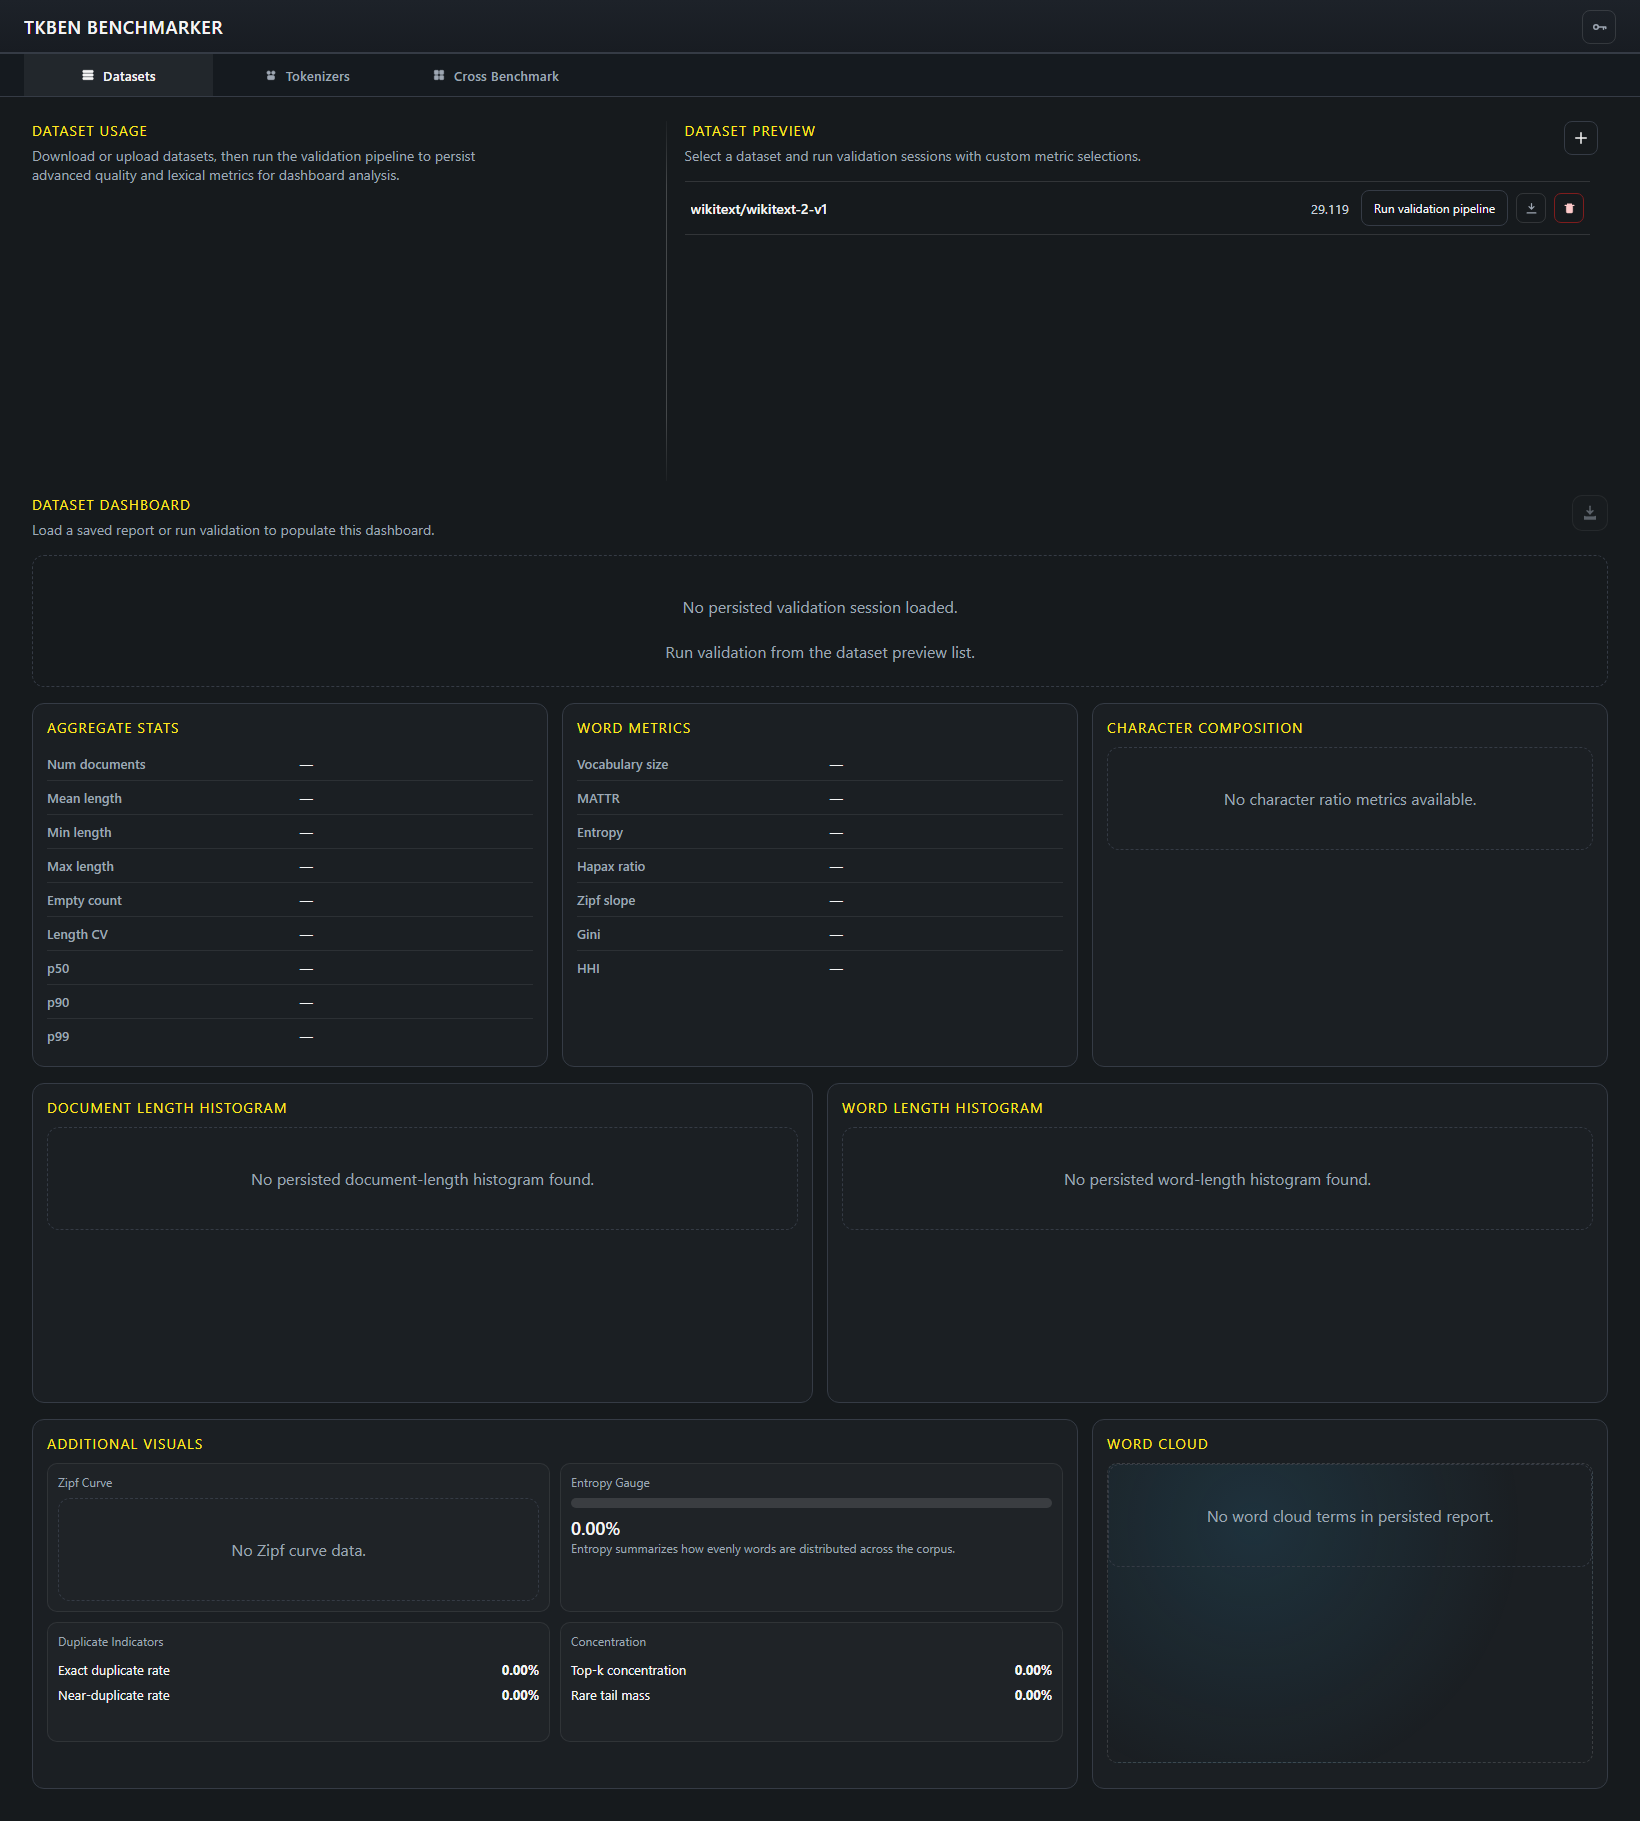
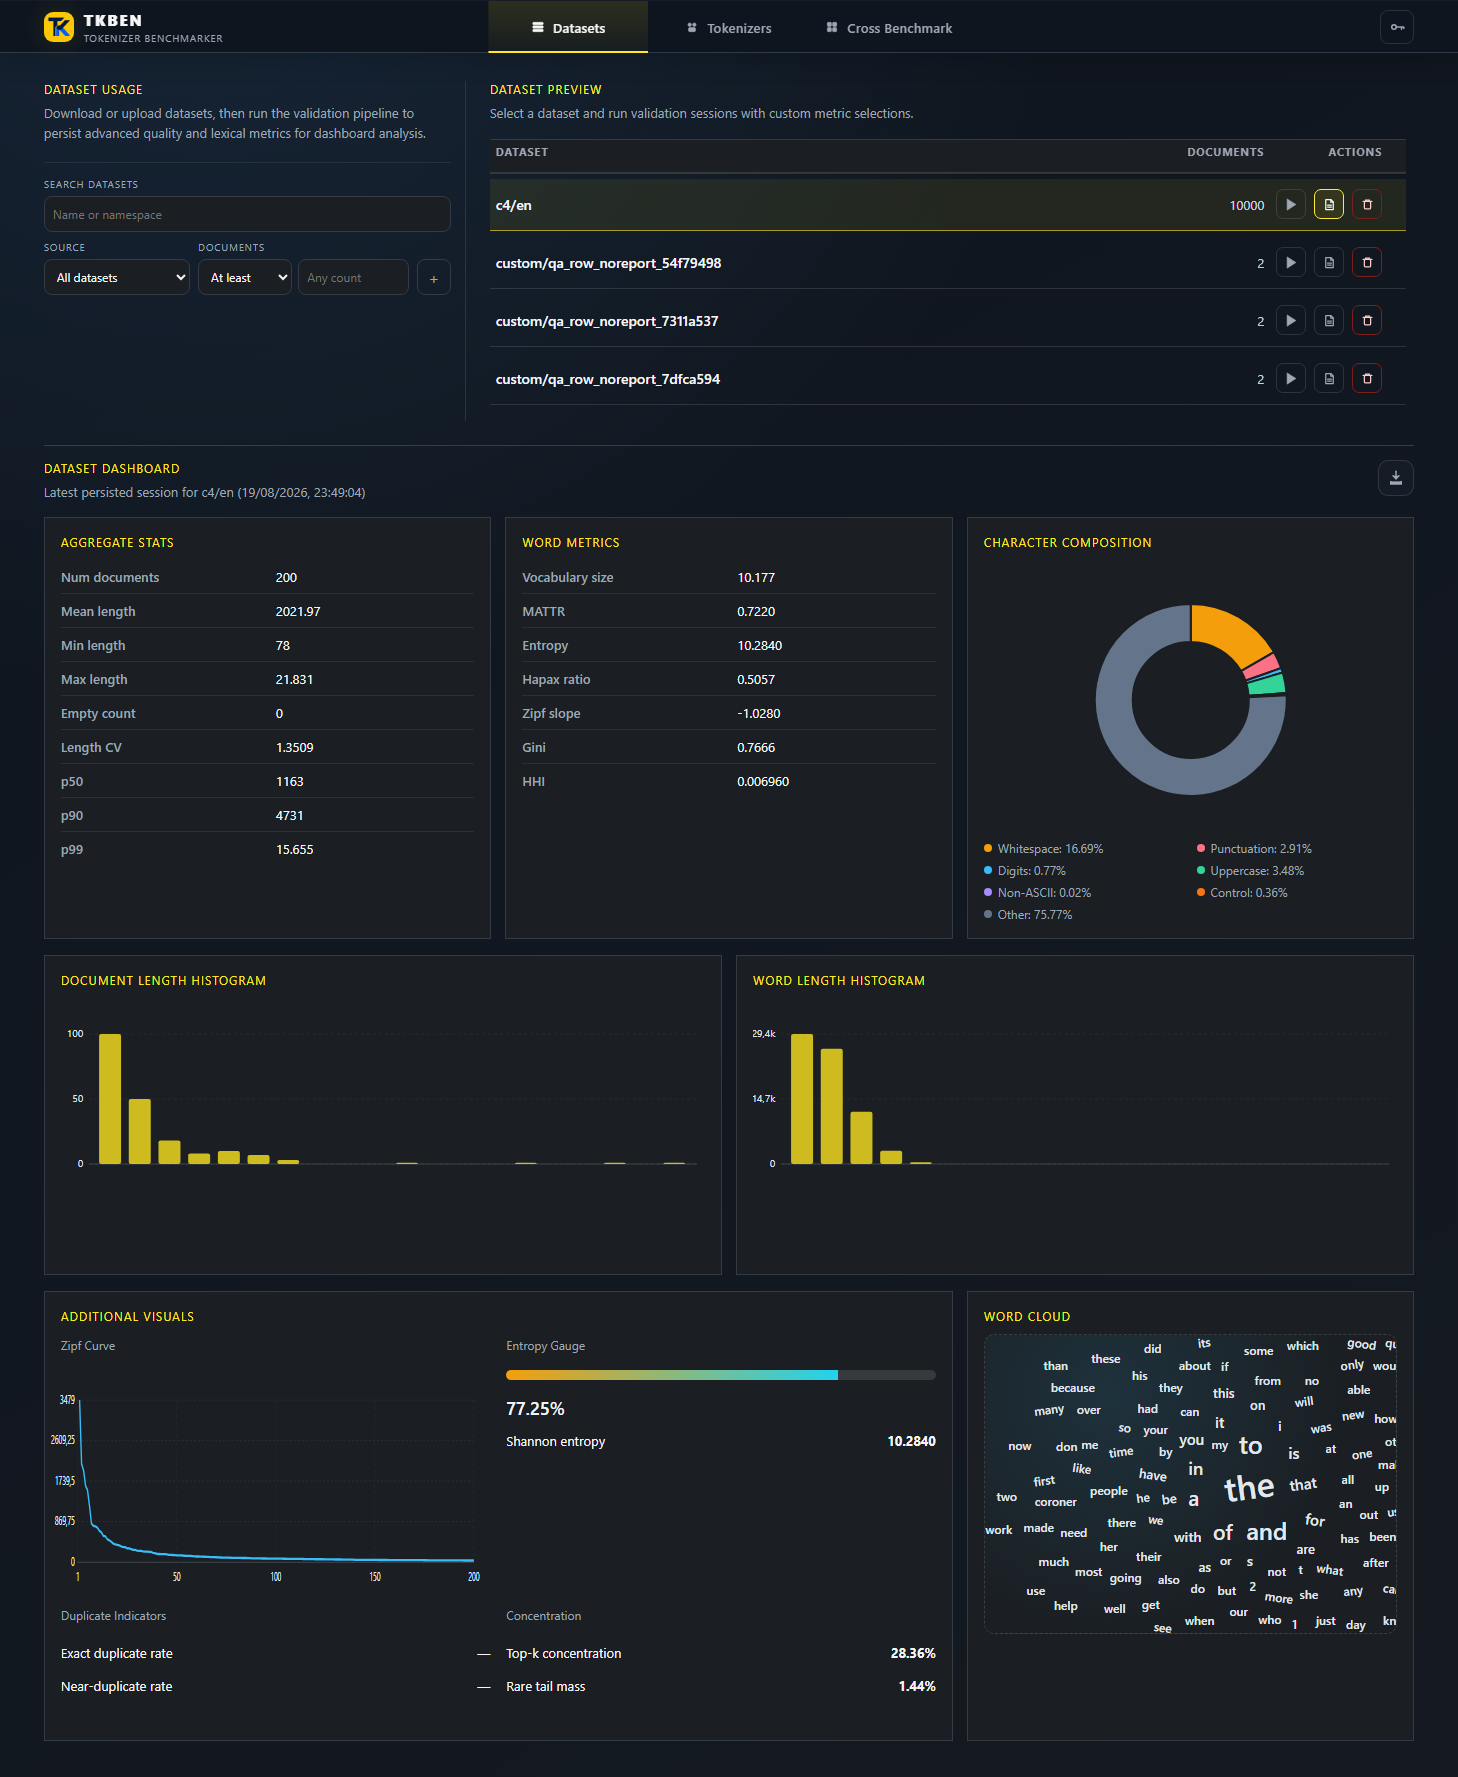
docs: refresh runtime dashboard screenshots

diff --git a/app/client/angular/styles.css b/app/client/angular/styles.css
@@ -437,7 +437,12 @@ app-root {
 }
 
 .app-content > * {
+  flex: 1 1 auto;
   min-width: 0;
+}
+
+.app-content > router-outlet {
+  display: none;
 }
 
 .sr-only {

diff --git a/README.md b/README.md
@@ -1,5 +1,5 @@
 # TKBEN Tokenizer Benchmarker
-Last updated: 2026-08-18
+Last updated: 2026-08-20
 [![Release](https://img.shields.io/github/v/release/CTCycle/TKBEN-tokenizers-benchmarker?display_name=tag)](https://github.com/CTCycle/TKBEN-tokenizers-benchmarker/releases)
 ![Python](https://img.shields.io/badge/python-%3E%3D3.14-3776AB?logo=python&logoColor=white)
 ![Node.js](https://img.shields.io/badge/node.js-%3E%3D22-339933?logo=node.js&logoColor=white)
@@ -122,7 +122,7 @@ Wait for the benchmark job to complete before opening its saved report. You can 
 
 ### 3.5 Product Snapshots
 
-The following snapshots were captured in local webapp mode with backend and frontend running:
+The following full-page captures were taken from the live local webapp with real persisted C4 validation and benchmark data. Open an image at its original size to inspect the complete page.
 
 The settings view centralizes local runtime options such as hosts, ports, logging, and optional integrations. Values are read from the local configuration and should be changed carefully when a service is already using the configured ports.
 
@@ -132,17 +132,17 @@ The settings view centralizes local runtime options such as hosts, ports, loggin
 Dataset dashboard with a loaded persisted validation session, aggregate statistics, histograms, and word-cloud analytics.
 
 ![Dataset workspace](assets/figures/dataset.png)
-*Dataset workspace displaying a completed validation report with summary metrics and visual analysis.*
+*Full-page dataset dashboard for a 200-document C4 validation. Review dataset health, lexical metrics, distributions, entropy, concentration, and word-cloud signals before benchmarking.*
 
 Tokenizers dashboard with an opened tokenizer report, vocabulary statistics, and populated token preview table.
 
 ![Tokenizers workspace](assets/figures/tokenizers-overview.png)
-*Tokenizer workspace showing vocabulary statistics and a paginated preview of extracted tokens.*
+*Full-page GPT-2 tokenizer report showing model metadata, a 50,257-token vocabulary, token-length distribution, and a paginated token preview.*
 
 Cross-benchmark dashboard with a loaded run summary and comparative metric panels.
 
 ![Cross-benchmark dashboard](assets/figures/cross-benchmark.png)
-*Cross-benchmark dashboard comparing saved tokenizer results across normalized metric panels.*
+*Full-page C4 cross-benchmark report comparing GPT-2 and RoBERTa across throughput, vocabulary, latency, round-trip fidelity, memory, and run diagnostics.*
 
 ## 4. Setup and Maintenance
 
